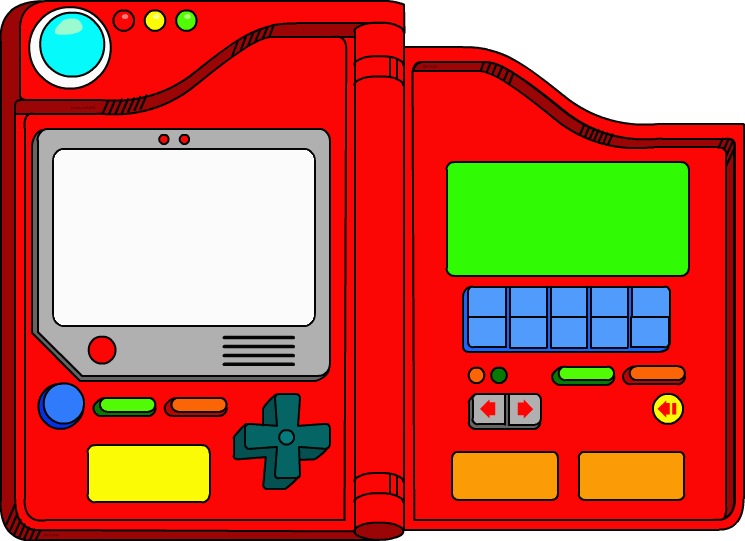
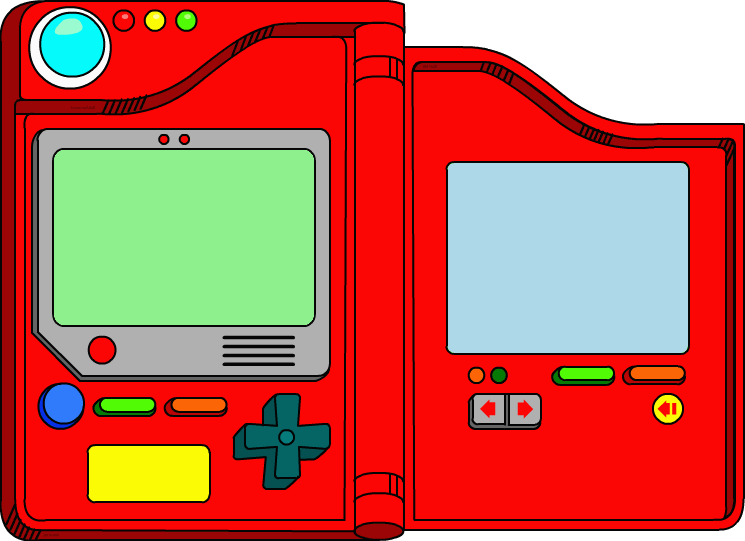
CSS placement of buttons and data

Changed region(s): [[0.0617, 0.2662, 0.4322, 0.6211], [0.5866, 0.2957, 0.9262, 0.6802], [0.5866, 0.8281, 0.9262, 0.9464]]

diff --git a/app/assets/stylesheets/style.css b/app/assets/stylesheets/style.css
@@ -11,16 +11,93 @@ body {
   margin: 0 auto;
   margin-top: 100px;
   height: 541px;
-  overflow: scroll;
   background-image: url('/assets/pokedex.png');
   background-position: fixed;
   background-repeat: none;
 }
 
 .pokemon_list_view ul {
+  position: absolute;
   background-color: white;
 }
 
 li {
   list-style: none;  
+}
+
+#pokemon_container {
+  position: fixed;
+  top: 564px;
+  left: 788px;
+}
+
+#pokemon_select {
+  background-color: #ff8000;
+  padding-top: 10px;
+  padding-bottom: 10px;
+  padding-left: 5px;
+  padding-right: 5px;
+  color: #ffffff;
+  border: 2px solid black;
+  -webkit-appearance: none;
+  -moz-appearance: none;
+}
+
+#view_in_pokedex_btn {
+  background-color: #ff8000;
+  padding-top: 10px;
+  padding-bottom: 10px;
+  padding-left: 5px;
+  padding-right: 5px;
+  color: #ffffff;
+  border: 2px solid black;
+  border-radius: 7px;
+}
+
+#view_in_pokedex_btn:hover {
+  background-color: #ffa85a;
+}
+
+#view_in_pokedex_btn:active {
+  background-color: #af5801;
+}
+
+#pokemon_headshot {
+  text-align: center;
+  position: fixed;
+  padding: 10px;
+  border-radius: 7px;
+  top: 263px;
+  left: 797px;
+  width: 218px;
+  height: 169px;
+  overflow-x: hidden;
+  overflow: scroll;
+}
+
+#pokemon_headshot h1 {
+  margin: 0;
+}
+
+#pokemon_stats {
+  position: fixed;
+  top: 250px;
+  left: 402px;
+  border-radius: 11px;
+  width: 260px;
+  height: 175px;
+  overflow: scroll;
+}
+
+#pokemon_stats ul {
+  margin-top: 3px;
+  padding-left: 2px;
+}
+
+#pokemon_stats input {
+  background-color: rgba(0,0,0,.25);
+  border: none;
+  padding: 5px;
+  color: #ffffff;
+  outline: none;
 }
